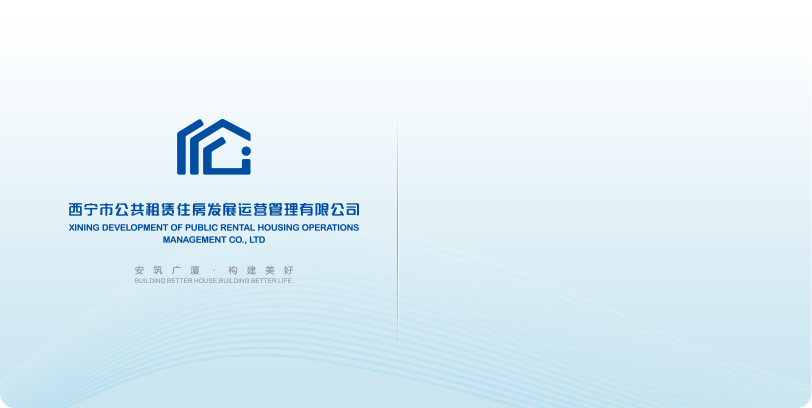
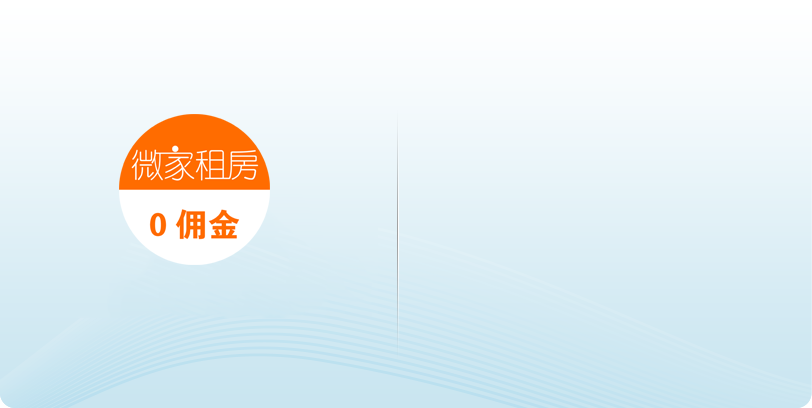
登入注册页面

Changed region(s): [[0.0616, 0.2647, 0.4618, 0.7059]]

diff --git a/app/index/public/admin/style/authority/main_css.css b/app/index/public/admin/style/authority/main_css.css
@@ -27,6 +27,7 @@ html, body {
     height: 65px;
     line-height: 65px;
     padding: 1px 1px 1px 40px;
+    margin-top: -8px;
 }
 
 #top_links {

diff --git a/app/index/protected/modules/admin/views/admin/introduce.php b/app/index/protected/modules/admin/views/admin/introduce.php
@@ -14,7 +14,7 @@
         </tr>
         <tr>
             <td width="100" height="30">当前版本<span class="TableRow2"></span></td>
-            <td style="text-align:left">后台管理系统 4.1</td>
+            <td style="text-align:left">后台管理系统 1.0</td>
         </tr>
         <tr>
             <td width="100" height="30">版权声明</td>
@@ -29,18 +29,18 @@
         </tr>
         <tr>
             <td width="100" height="30">程序制作</td>
-            <td style="text-align:left">（青岛）信息科技有限公司</td>
+            <td style="text-align:left">鼎尚网络有限公司</td>
         </tr>
         <tr>
             <td width="100" height="30">联系方式</td>
             <td style="text-align:left">
-                <a href="mailto:shangcent@126.com">shangcent@126.com</a>
+                <a href="mailto:shangcent@126.com">18695785035</a>
             </td>
         </tr>
         <tr>
             <td width="100" height="30">程序主页<span class="TableRow2"></span></td>
             <td style="text-align:left">
-                <a href="http://sc.chinaz.com" target="_blank">http://sc.chinaz.com</a>
+                <a href="http://www.weijiazx.com" target="_blank">http://www.weijiazx.com</a>
             </td>
         </tr>
     </table>

diff --git a/app/index/protected/modules/admin/views/admin/index.php b/app/index/protected/modules/admin/views/admin/index.php
@@ -44,9 +44,9 @@
                     ok: true,
                 });
             } else if (ua.indexOf("msie 8") > -1) {
-                window.external.AddToFavoritesBar('${dynamicURL}/authority/loginInit.action', '西宁市公共租赁住房信息管理系统管理');//IE8
+                window.external.AddToFavoritesBar('${dynamicURL}/authority/loginInit.action', '福州市租赁住房信息管理系统管理');//IE8
             } else if (document.all) {
-                window.external.addFavorite('${dynamicURL}/authority/loginInit.action', '西宁市公共租赁住房信息管理系统管理');
+                window.external.addFavorite('${dynamicURL}/authority/loginInit.action', '福州市公共租赁住房信息管理系统管理');
             } else {
                 art.dialog({
                     icon: 'error',
@@ -388,7 +388,7 @@
 <body onload="getDate01()">
 <div id="top">
     <div id="top_logo">
-        <img alt="logo" src="public/admin/images/common/logo.jpg" width="274" height="49"
+        <img alt="logo" src="public/admin/images/common/logo.png"
              style="vertical-align:middle;">
     </div>
     <div id="top_links">

diff --git a/app/index/protected/components/BaseController.php b/app/index/protected/components/BaseController.php
@@ -3,7 +3,7 @@ class BaseController extends CController
 {
 	
 	public $layout=null;
-	public $wechat = true;
+	public $wechat = false;
 
 	protected $key = 'z+Y4N{FdU4vNkXIf*tiKFF-odDRM,I88';
 
@@ -30,7 +30,7 @@ class BaseController extends CController
 
 //		$this->wechat = !(strpos($_SERVER['HTTP_USER_AGENT'], 'MicroMessenger') == false);
 //		return  true;
-        $this->wechat==true;
+        $this->wechat==false;
         if($this->wechat){
 //            $openid = $this->getOpenID();
 //            $usermodel = new User();

diff --git a/app/index/protected/views/site/desktop/guanjiafuwu.php b/app/index/protected/views/site/desktop/guanjiafuwu.php
@@ -45,8 +45,8 @@
     </div>
     <div class="login">
         <span><a href="index.php?r=site/login">登入</a></span>
-        <span>|</span>
-        <span><a href="index.php?r=site/register">注册</a></span>
+<!--        <span>|</span>-->
+<!--        <span><a href="index.php?r=site/register">注册</a></span>-->
     </div>
 </div>
   <div style="overflow:hidden;width:100%;height:2px;background:url(/baozupo/images/topline.gif);"></div>

diff --git a/app/index/protected/views/site/desktop/login.php b/app/index/protected/views/site/desktop/login.php
@@ -43,8 +43,8 @@
     </div>
     <div class="login">
         <span><a href="index.php?r=site/login">登入</a></span>
-        <span>|</span>
-        <span><a href="index.php?r=site/register">注册</a></span>
+<!--        <span>|</span>-->
+<!--        <span><a href="index.php?r=site/register">注册</a></span>-->
     </div>
 </div>
   <div style="overflow:hidden;width:100%;height:2px;background:url(/baozupo/images/topline.gif);"></div>

diff --git a/app/index/protected/views/site/desktop/index.php b/app/index/protected/views/site/desktop/index.php
@@ -31,8 +31,8 @@
     </div>
     <div class="login">
         <span><a href="index.php?r=site/login">登入</a></span>
-        <span>|</span>
-        <span><a href="index.php?r=site/register">注册</a></span>
+<!--        <span>|</span>-->
+<!--        <span><a href="index.php?r=site/register">注册</a></span>-->
     </div>
 </div>
 <div id="focus-banner">

diff --git a/app/index/protected/views/site/desktop/myinfo.php b/app/index/protected/views/site/desktop/myinfo.php
@@ -46,8 +46,8 @@
     </div>
     <div class="login">
         <span><a href="index.php?r=site/login">登入</a></span>
-        <span>|</span>
-        <span><a href="index.php?r=site/register">注册</a></span>
+<!--        <span>|</span>-->
+<!--        <span><a href="index.php?r=site/register">注册</a></span>-->
     </div>
 </div>
 

diff --git a/app/index/protected/views/site/desktop/zufangdetail.php b/app/index/protected/views/site/desktop/zufangdetail.php
@@ -59,8 +59,7 @@
     </div>
     <div class="login">
         <span><a href="index.php?r=site/login">登入</a></span>
-        <span>|</span>
-        <span><a href="index.php?r=site/register">注册</a></span>
+       
     </div>
 </div>
   <div style="overflow:hidden;width:100%;height:2px;background:url(images/topline.gif);"></div>

diff --git a/app/index/protected/views/site/desktop/woyaozufang.php b/app/index/protected/views/site/desktop/woyaozufang.php
@@ -36,8 +36,8 @@
 	</div>
 	<div class="login">
 		<span><a href="index.php?r=site/login">登入</a></span>
-		<span>|</span>
-		<span><a href="index.php?r=site/register">注册</a></span>
+<!--		<span>|</span>-->
+<!--		<span><a href="index.php?r=site/register">注册</a></span>-->
 	</div>
 </div>
 <div id="focus-banner">

diff --git a/app/index/protected/views/site/desktop/fangdongjiameng.php b/app/index/protected/views/site/desktop/fangdongjiameng.php
@@ -44,8 +44,8 @@
 	</div>
 	<div class="login">
 		<span><a href="index.php?r=site/login">登入</a></span>
-		<span>|</span>
-		<span><a href="index.php?r=site/register">注册</a></span>
+<!--		<span>|</span>-->
+<!--		<span><a href="index.php?r=site/register">注册</a></span>-->
 	</div>
 </div>
 

diff --git a/app/index/protected/views/site/desktop/aboutus.php b/app/index/protected/views/site/desktop/aboutus.php
@@ -40,8 +40,7 @@
     </div>
     <div class="login">
         <span><a href="index.php?r=site/login">登入</a></span>
-        <span>|</span>
-        <span><a href="index.php?r=site/register">注册</a></span>
+     
     </div>
 </div>
 
